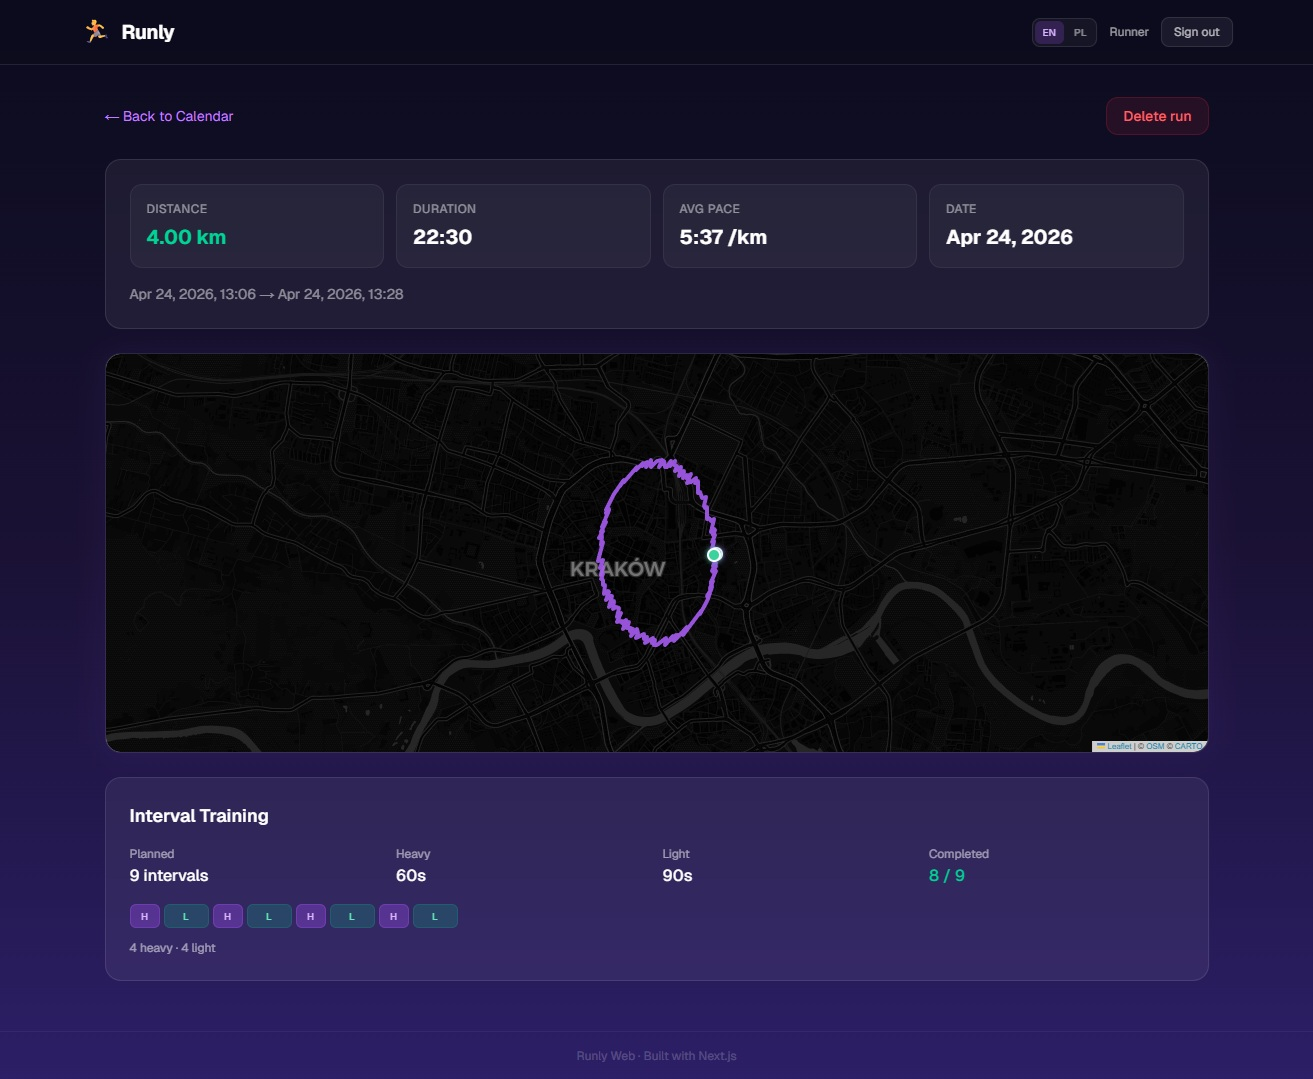
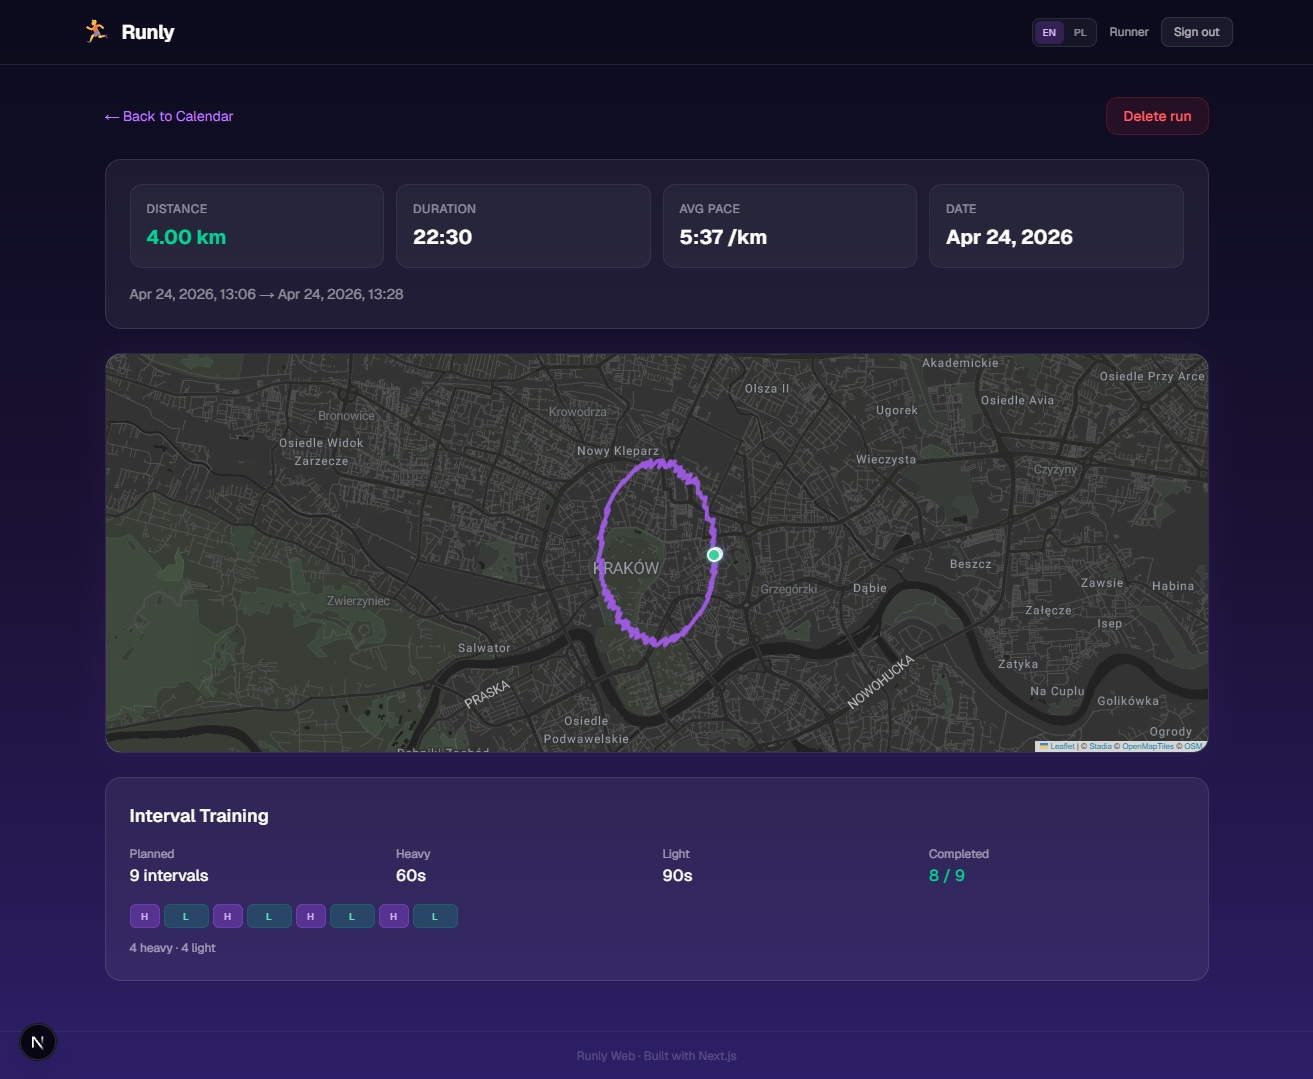
update map layout

Changed region(s): [[0.0625, 0.3058, 0.9368, 0.7034], [0.0, 0.9481, 0.0625, 0.9787]]

diff --git a/src/features/runs/components/RouteMap.tsx b/src/features/runs/components/RouteMap.tsx
@@ -63,12 +63,8 @@ export const RouteMap: FC<RouteMapProps> = ({ path }) => {
         zoomControl={false}
       >
         <TileLayer
-          url="https://{s}.basemaps.cartocdn.com/dark_nolabels/{z}/{x}/{y}{r}.png"
-          attribution='&copy; <a href="https://www.openstreetmap.org/copyright">OSM</a> &copy; <a href="https://carto.com/">CARTO</a>'
-        />
-        <TileLayer
-          url="https://{s}.basemaps.cartocdn.com/dark_only_labels/{z}/{x}/{y}{r}.png"
-          opacity={0.7}
+          url="https://tiles.stadiamaps.com/tiles/alidade_smooth_dark/{z}/{x}/{y}{r}.png"
+          attribution='&copy; <a href="https://stadiamaps.com/">Stadia</a> &copy; <a href="https://openmaptiles.org/">OpenMapTiles</a> &copy; <a href="https://www.openstreetmap.org/copyright">OSM</a>'
         />
         <Polyline
           positions={positions}
